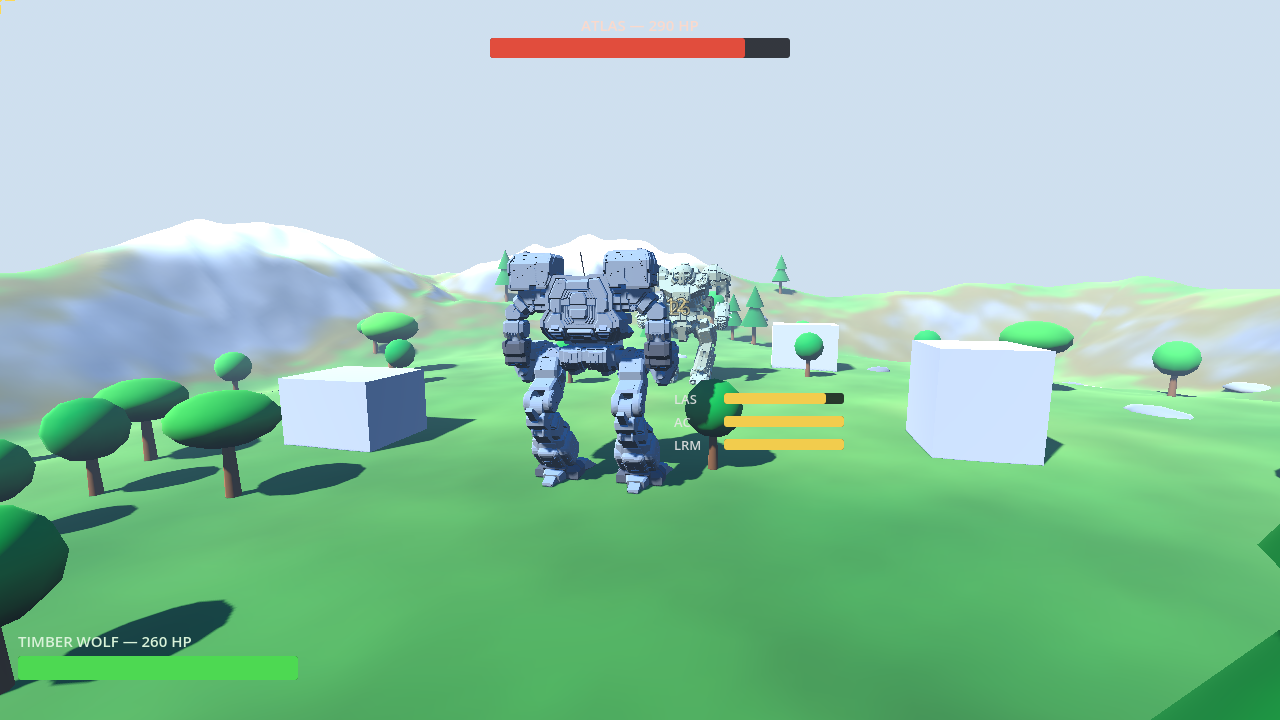
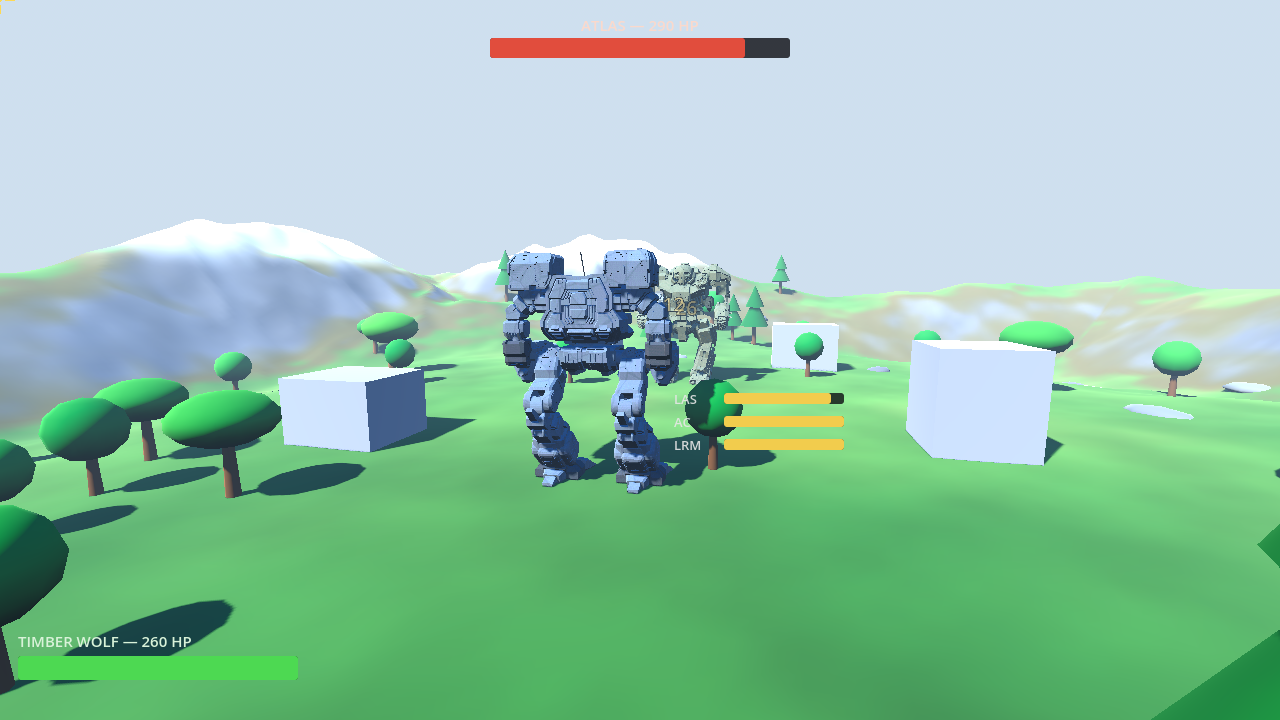
godot: textures — Godot integration: all harnesses re-verified on the textured mechs, proof frames, NOTES
Regressions (all exit 0): --duel-test invariants bit-identical; --timberwolf-test 22.91 / slide 0.0000; --weapons-test numbers match baseline, hit flash + death darkening verified on textured skin in frames; --breakable-test 17/17 with split counts exact (TW 12525/12490/5678/35121, Atlas 2576/28512); --terrain-test exit 0, render info 297 calls / 413,932 prims (vs 296 / 414,016 — no systematic draw-call change). Proof frames regenerated by the harness runs now show the textured mechs.

Changed region(s): [[0.4062, 0.3667, 0.5938, 0.55], [0.4062, 0.4889, 0.4688, 0.5194], [0.4688, 0.55, 0.5, 0.5806]]

diff --git a/godot/NOTES.md b/godot/NOTES.md
@@ -50,3 +50,13 @@
 - Regressions (all exit 0): --duel-test (twist 65.9, tree sep 2.700, mech sep 4.400, planted diff +0.000 — bit-identical invariants; atlasMaxSlide 0.0212 -> 0.0101, playerSteps 11 -> 12, both clock/terrain-profile effects, no assertion touched). --timberwolf-test (moved 22.91 vs 22.92 — stop-trigger phase on the new profile; steps/slide/diffs identical). --weapons-test deltas, all routing/choreography, invariants intact: AC shells now land mid-torso on the near-level lane (pool 252, leg_L untouched — was leg_L 38 on the sine terrain); LRM pool 196; ATLASFIRE phase moved to 45u engagement (TOF 0.9s spans a full strafe reversal; at 30u the part-box volume — thighs protrude ~2.7u past the capsule — absorbed the whole lead error and return fire went 6/6 unmissable) -> 5 hits / 1 miss, all hits routed to parts. --breakable-test 17/17: debris rest y read 0.120 vs 0.120 (self-referential check, new ground); limp drag bound 0.45 -> 0.65 (root-tilt projection on transition slopes; stepping would be ~1.7u; good-leg planted diff still 0.000, ratio 0.552); head craft ray now angles onto the canopy face (the vertical drop raced the capsule's flat top disc in the same column, decided by root tilt); baseline speed now reads the full 2.20 u/s.
 - Clock fix found by the weapons regression: MechWalker.StepFrame clamps its accumulator input to 0.1s, so at llvmpipe frame rates (~2 FPS in this scene) gait time ran ~5x slower than projectile/cooldown time. MechDuel now substeps the walkers (StepWalker, <=0.09s slices) so every system shares one clock at any frame rate; at 60 FPS it is a single call. (Side effect: step 3's "gait caps effective speed at 1.63 u/s" was partly this clamp — true gait speed at cmd 2.2 is 2.20.)
 - Run: `xvfb-run -a godot --path . --rendering-driver opengl3 --resolution 1280x720 -- --terrain-test`
+
+## Roadmap step 5 — character textures (both mechs, baked PBR)
+
+- Route: Cycles bake (not the UV-space fallback). Build scripts (~/workspace/timberwolf/build_timberwolf.py, ~/workspace/atlas/build_atlas.py) now call the shared ~/workspace/mechtex.py: Smart UV Project per part (66°, small island margin), then a procedural surfacing group evaluated in OBJECT space (so weathering flows across part boundaries) — Voronoi panel tint cells + darkened cell borders, Geometry-pointiness edge wear (lighter + smoother), crevice grime + downward streak noise weighted toward the ground, fine micro-noise. Albedo/roughness bake as Cycles EMIT passes (network routed to Emission, 1 sample, deterministic); the normal map bakes from a bump material driven by the same height field (micro noise − panel lines + wear). Bake targets pre-filled with the base coat (use_clear off), so inter-island gaps read as flat coat, never black.
+- Sets: per part albedo + roughness (half res) + tangent normal. Torso 2048², parts ≥3.5u 1024², small parts (toes/pins/antenna) 512². TW blue-gray naval (base 0.145/0.165/0.200; JointDark/WeaponSteel roles kept), canopy stays flat emissive orange (untextured role). Atlas olive drab (0.160/0.165/0.105), AC/20 steel, SRM6 dark. TW 102 maps, Atlas 54.
+- Godot import: FBX stores relative textures/*.png (path_mode RELATIVE); PNG imports set to VRAM compression (compress/mode=2 in the committed .import files — the lossless default would have cost ~210MB VRAM for the TW set alone). Live ctex: TW 19.7MB + Atlas 16.0MB = 35.7MB total.
+- Structure preserved exactly: per-mesh names/tris byte-identical to the flat builds (TW 192,874 total, Torso 65,814; Atlas 112,286), 12-bone rigs unchanged, heights 13.0/14.0. Breakable region counts on the textured FBXs re-proven by --breakable-test: TW Pod_L 12525 / Pod_R 12490 / Head 5678 / Core 35121, Atlas Head 2576 / Core 28512 — identical to the flat baseline.
+- Flash/darkening on textured materials verified in frames, not assumed: weapons_laser.png shows the orange emission pulse glowing over the Atlas's olive texture at the impact point; weapons_atlas_dead.png shows the 0.5x albedo darkening reading as a burnt hulk with texture detail still visible. The detached pod in break_pod_fall.png carries its texture with no seam tearing (split pieces inherit the torso UVs/material).
+- Regressions (all exit 0): --duel-test invariants bit-identical (twist 65.9, separations 2.700/4.400, atlasMaxSlide 0.0101, playerSteps 12). --timberwolf-test moved 22.91, maxSlide 0.0000. --weapons-test all pass, numbers match the terrain-step baseline (LASER 3/36 → 304; LRM 8/8 → 196; BLOCKED unchanged; KILL/PLAYERDEATH/RESET pass). --breakable-test 17/17. --terrain-test exit 0; render info 297 draw calls / 413,932 prims / 297 objects vs 296 / 414,016 / 296 at the terrain step — no systematic change (same surface count; ±1 is a transient object in the capture frame).
+- Note: the first weapons re-run was lost when /tmp (512MB tmpfs) was wiped mid-session along with its log; the re-run (log in ~/workspace/testlogs/) passed clean.
